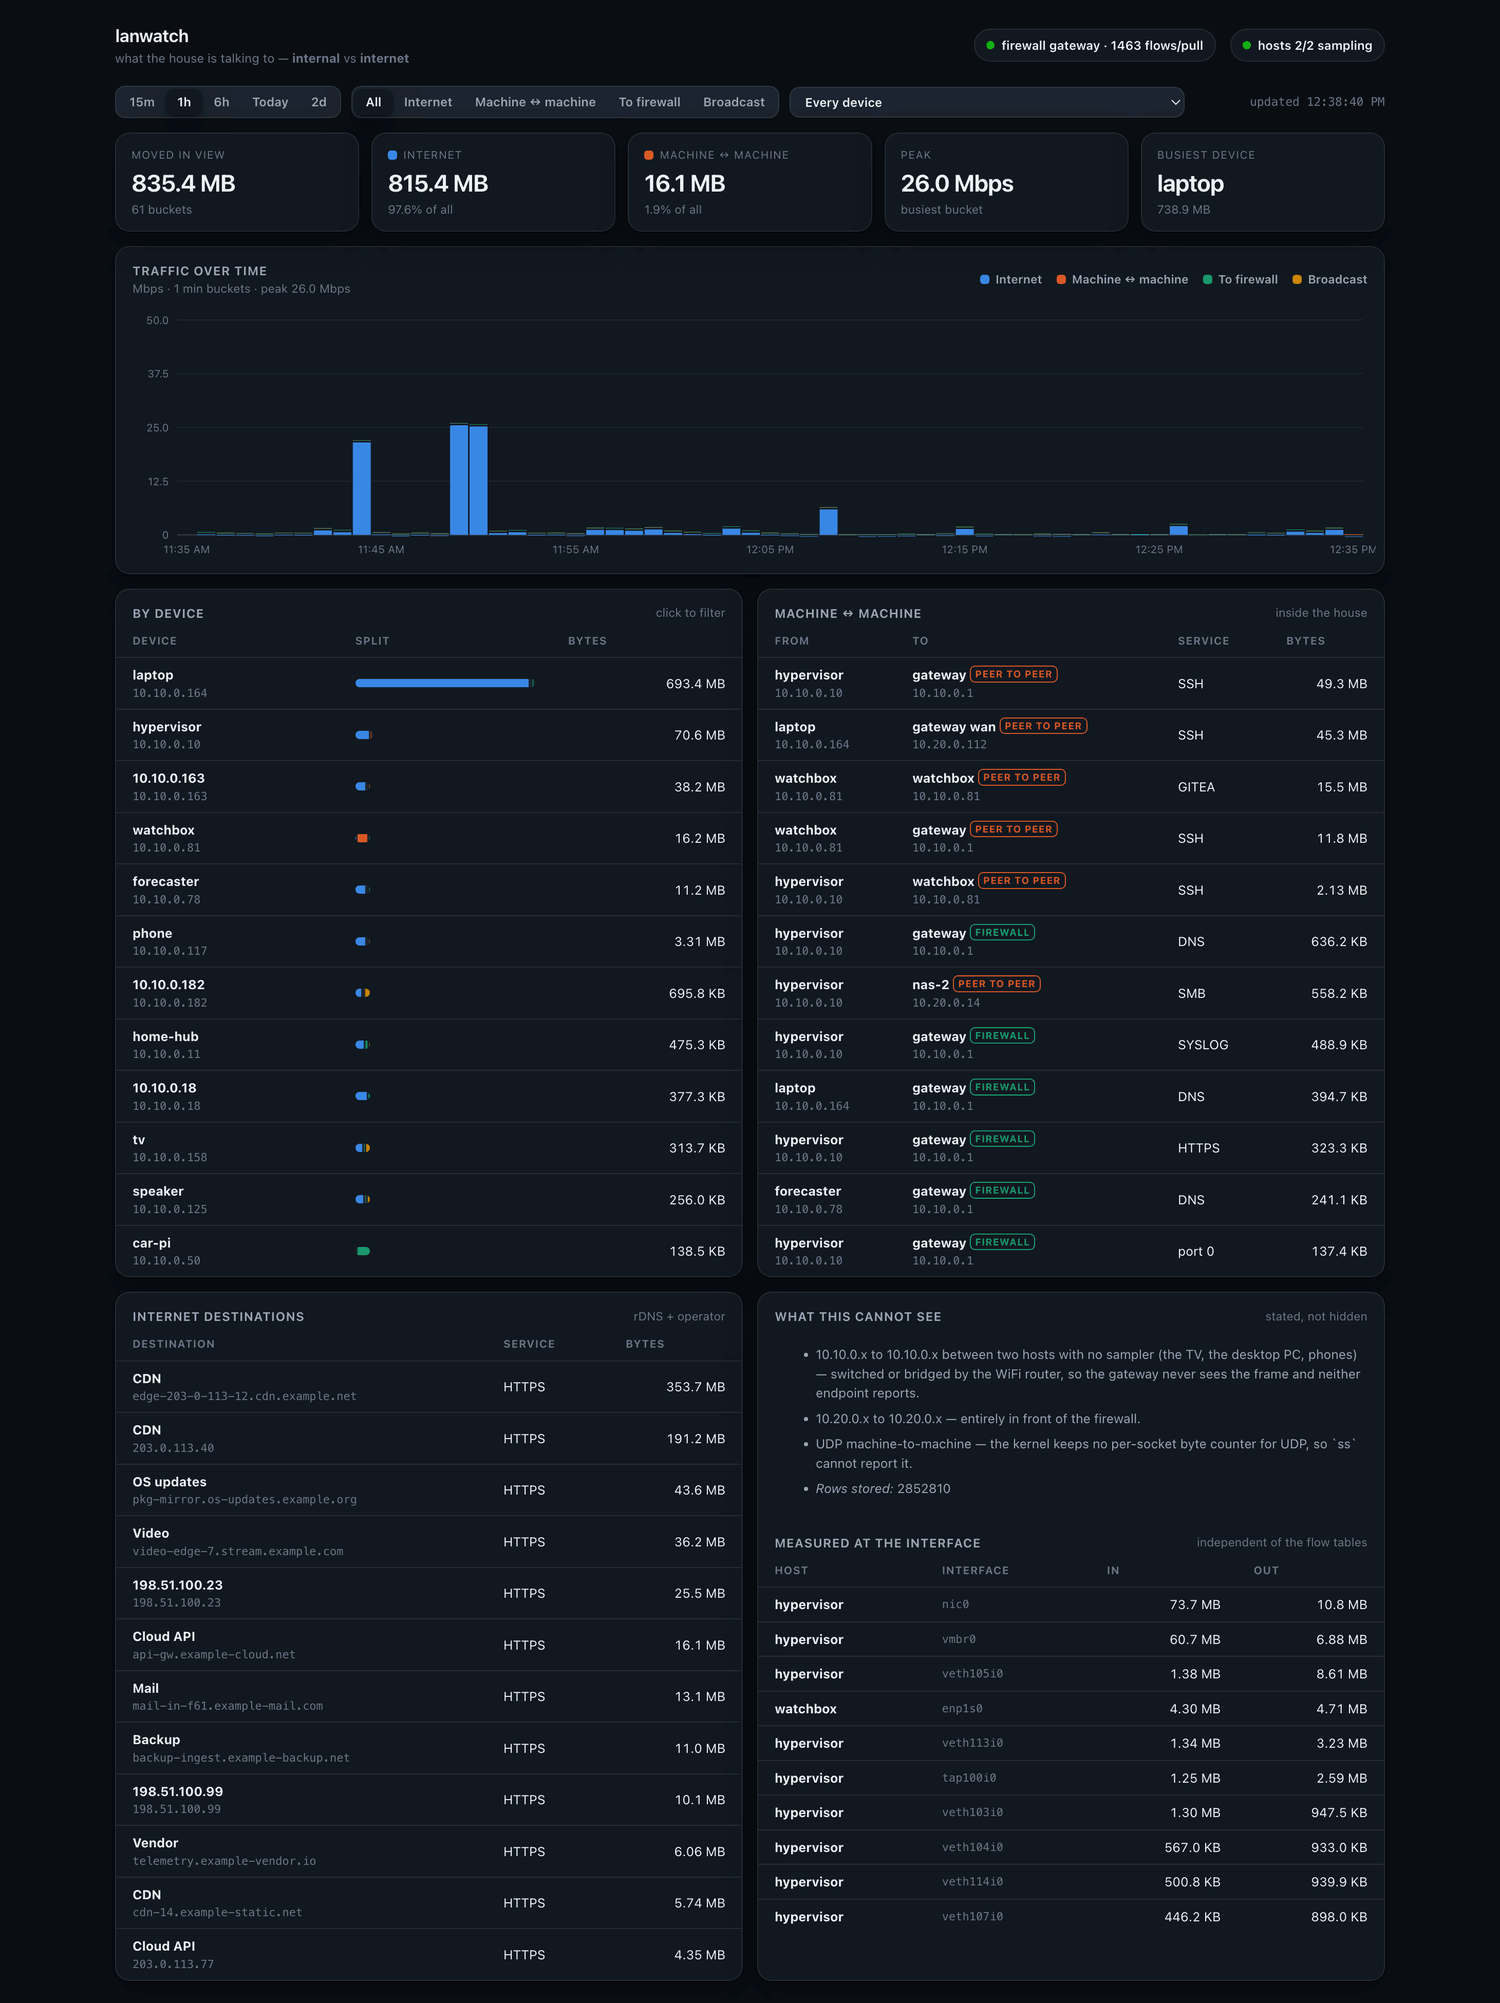
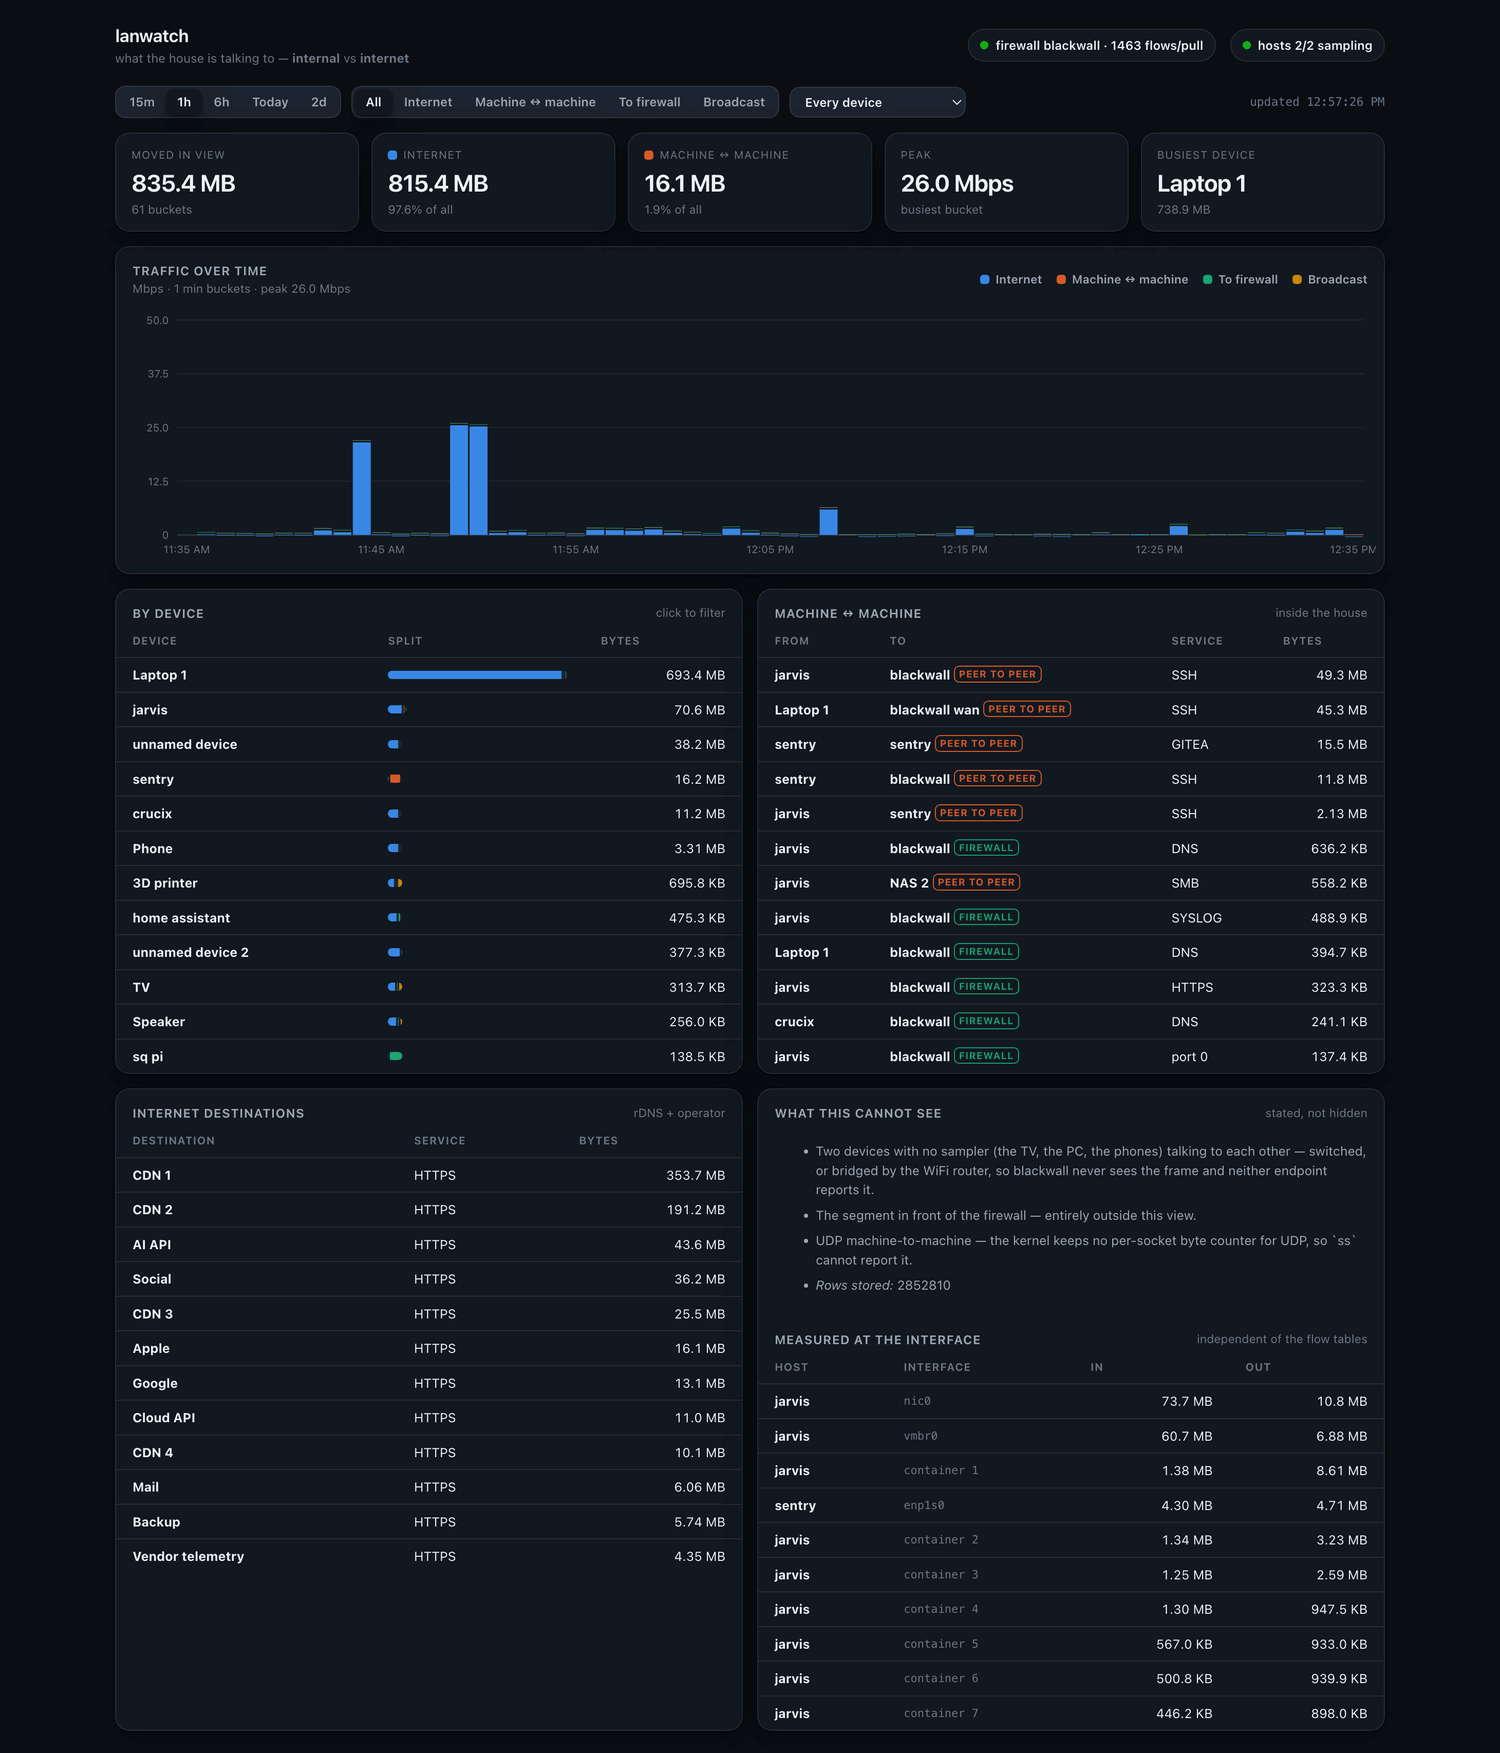
lanwatch screenshot: box names stay, my devices read as roles, no addresses
The first render invented stand-in hostnames and documentation addresses. That
is the rename he rejected on PR #8 — jarvis, sentry, blackwall and crucix stay
named on this site. Re-rendered from the same hour with the real box names, his
own machines as roles (Laptop 1, Phone, TV), container interfaces unnumbered and
every address blank.

diff --git a/src/pages/lanwatch.html b/src/pages/lanwatch.html
@@ -74,7 +74,7 @@ note: 6
 
 <h2>What it looks like</h2>
 <style>.shot{padding:12px}.shot a{display:block}.shot img{display:block;width:100%;height:auto;border-radius:6px}</style>
-<figure class="shot"><a href="/assets/lanwatch-dash.png"><img src="/assets/lanwatch-dash.png" alt="The lanwatch dashboard: a row of totals showing 835.4 MB moved, 815.4 MB of it internet and 16.1 MB machine to machine; a one-minute traffic chart; a by-device table; a machine-to-machine table tagging each row as peer to peer or firewall; a table of internet destinations; and a panel headed WHAT THIS CANNOT SEE listing its own blind spots." width="1500" height="2003" loading="lazy"></a><figcaption>One hour, on the dashboard. The two halves never share a number: internet on the left, machine-to-machine on the right, each from the collector that can actually see it. The panel at the bottom right is the one I most wanted to exist — the tool stating what it is blind to, next to the numbers it is sure of. Device names and addresses here are stand-ins.</figcaption></figure>
+<figure class="shot"><a href="/assets/lanwatch-dash.png"><img src="/assets/lanwatch-dash.png" alt="The lanwatch dashboard: a row of totals showing 835.4 MB moved, 815.4 MB of it internet and 16.1 MB machine to machine; a one-minute traffic chart; a by-device table; a machine-to-machine table tagging each row as peer to peer or firewall; a table of internet destinations; and a panel headed WHAT THIS CANNOT SEE listing its own blind spots." width="1500" height="1753" loading="lazy"></a><figcaption>One hour, on the dashboard. The two halves never share a number: internet on the left, machine-to-machine on the right, each from the collector that can actually see it. The panel at the bottom right is the one I most wanted to exist — the tool stating what it is blind to, next to the numbers it is sure of. The boxes are named as they are everywhere else here; my own devices read as roles, and addresses are left off.</figcaption></figure>
 
 <h2>An unobserved hour must not look quiet</h2>
 <p>The version before this one died exactly like that. Its feeder ran on my Mac, I closed the lid, and the chart kept rendering for 15 days like nothing happened. The internet half survives collector downtime for free: the firewall records around the clock and the collector catches up from the last point it read. The machine-to-machine half has no off-box recorder, and cumulative counters diffed across a sleep would dump the whole gap into one bucket.</p>

diff --git a/writing/lanwatch.html b/writing/lanwatch.html
@@ -93,7 +93,7 @@
 
 <h2>What it looks like</h2>
 <style>.shot{padding:12px}.shot a{display:block}.shot img{display:block;width:100%;height:auto;border-radius:6px}</style>
-<figure class="shot"><a href="/assets/lanwatch-dash.png"><img src="/assets/lanwatch-dash.png" alt="The lanwatch dashboard: a row of totals showing 835.4 MB moved, 815.4 MB of it internet and 16.1 MB machine to machine; a one-minute traffic chart; a by-device table; a machine-to-machine table tagging each row as peer to peer or firewall; a table of internet destinations; and a panel headed WHAT THIS CANNOT SEE listing its own blind spots." width="1500" height="2003" loading="lazy"></a><figcaption>One hour, on the dashboard. The two halves never share a number: internet on the left, machine-to-machine on the right, each from the collector that can actually see it. The panel at the bottom right is the one I most wanted to exist — the tool stating what it is blind to, next to the numbers it is sure of. Device names and addresses here are stand-ins.</figcaption></figure>
+<figure class="shot"><a href="/assets/lanwatch-dash.png"><img src="/assets/lanwatch-dash.png" alt="The lanwatch dashboard: a row of totals showing 835.4 MB moved, 815.4 MB of it internet and 16.1 MB machine to machine; a one-minute traffic chart; a by-device table; a machine-to-machine table tagging each row as peer to peer or firewall; a table of internet destinations; and a panel headed WHAT THIS CANNOT SEE listing its own blind spots." width="1500" height="1753" loading="lazy"></a><figcaption>One hour, on the dashboard. The two halves never share a number: internet on the left, machine-to-machine on the right, each from the collector that can actually see it. The panel at the bottom right is the one I most wanted to exist — the tool stating what it is blind to, next to the numbers it is sure of. The boxes are named as they are everywhere else here; my own devices read as roles, and addresses are left off.</figcaption></figure>
 
 <h2>An unobserved hour must not look quiet</h2>
 <p>The version before this one died exactly like that. Its feeder ran on my Mac, I closed the lid, and the chart kept rendering for 15 days like nothing happened. The internet half survives collector downtime for free: the firewall records around the clock and the collector catches up from the last point it read. The machine-to-machine half has no off-box recorder, and cumulative counters diffed across a sleep would dump the whole gap into one bucket.</p>
